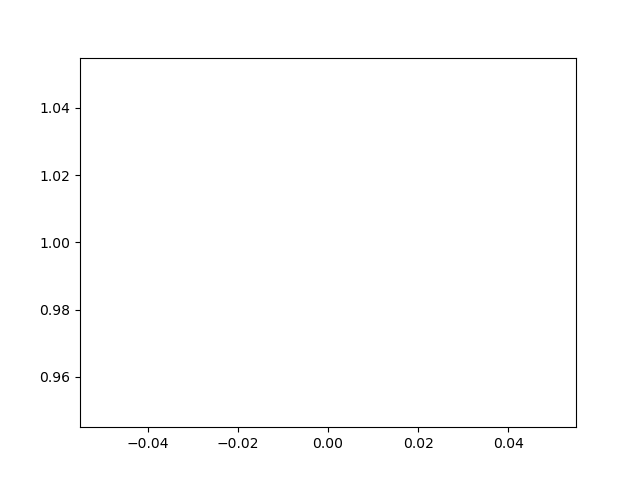
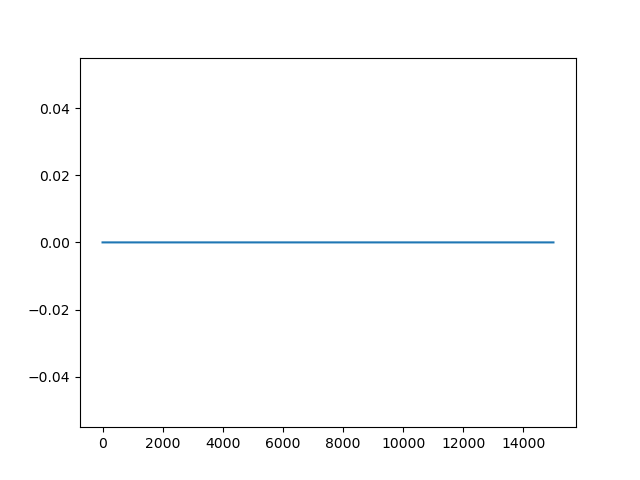
1

diff --git a/frozen lake.py b/frozen lake.py
@@ -3,9 +3,9 @@ import numpy as np
 import matplotlib.pyplot as plt
 import pickle
 
-def run(episodes, is_training=True, render=False):
+def run(episodes, is_training, render):
 
-    env = gym.make('FrozenLake-v1', map_name="8x8", is_slippery=True, render_mode='human' if render else None)
+    env = gym.make('FrozenLake-v1', map_name="8x8", is_slippery=False, render_mode='human' if render else None)
 
     if(is_training):
         q = np.zeros((env.observation_space.n, env.action_space.n)) # init a 64 x 4 array
@@ -66,4 +66,4 @@ def run(episodes, is_training=True, render=False):
 if __name__ == '__main__':
     # run(15000)
 
-    run(1, is_training=False, render=True)
+    run(15000, is_training=False, render=False)
